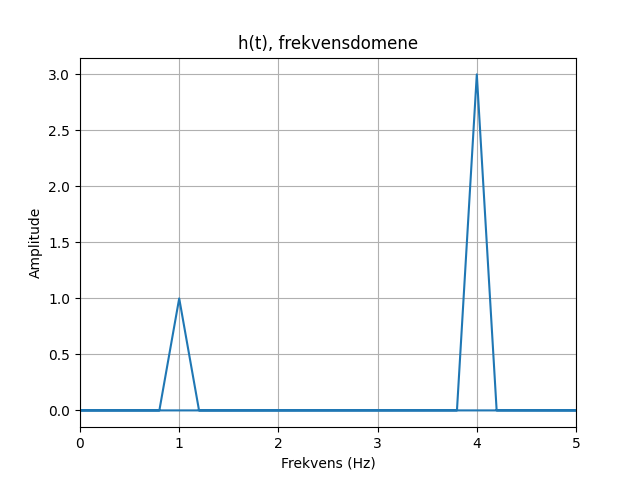
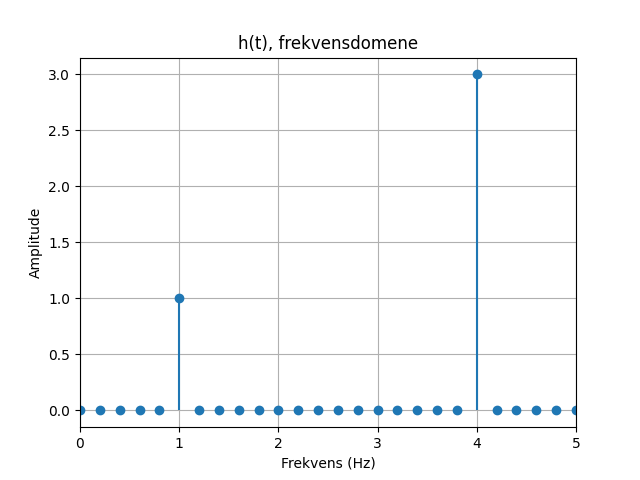
Large commit. Rewritten much, restructured a lot, added plots, etc

Changed region(s): [[0.125, 0.125, 0.9062, 0.875]]

diff --git a/scripts/part_2.py b/scripts/part_2.py
@@ -6,7 +6,7 @@ import matplotlib.pyplot as plt
 
 start = 0
 end = 5
-N = 100000
+N = 1000000
 t = np.linspace(start, end, N)
 fs = N / (end - start)
 
@@ -49,7 +49,7 @@ plt.clf()
 fft_1 = 2 * abs(sp.fft.fft(sig_1)) / N
 fft_1_freqs = sp.fft.fftfreq(N, 1 / fs)
 
-plt.plot(fft_1_freqs, fft_1, label="Signal 1, Frekvensdomene")
+plt.stem(fft_1_freqs, fft_1, label="Signal 1, Frekvensdomene", basefmt=" ")
 plt.xlim(0, 5)
 plt.grid()
 plt.title("f(t), frekvensdomene")
@@ -75,7 +75,7 @@ plt.clf()
 fft_2 = 2 * abs(sp.fft.fft(sig_2)) / N
 fft_2_freqs = sp.fft.fftfreq(N, 1 / fs)
 
-plt.plot(fft_2_freqs, fft_2, label="Signal 2, Frekvensdomene")
+plt.stem(fft_2_freqs, fft_2, label="Signal 2, Frekvensdomene", basefmt=" ")
 plt.xlim(0, 5)
 plt.grid()
 plt.title("g(t), frekvensdomene")
@@ -104,7 +104,7 @@ plt.clf()
 fft_1a2 = 2 * abs(sp.fft.fft(sig_1a2)) / N
 fft_1a2_freqs = sp.fft.fftfreq(N, 1 / fs)
 
-plt.plot(fft_1a2_freqs, fft_1a2, label="Signal 1 + 2, Frekvensdomene")
+plt.stem(fft_1a2_freqs, fft_1a2, label="Signal 1 + 2, Frekvensdomene", basefmt=" ")
 plt.xlim(0, 5)
 plt.grid()
 plt.title("h(t), frekvensdomene")
